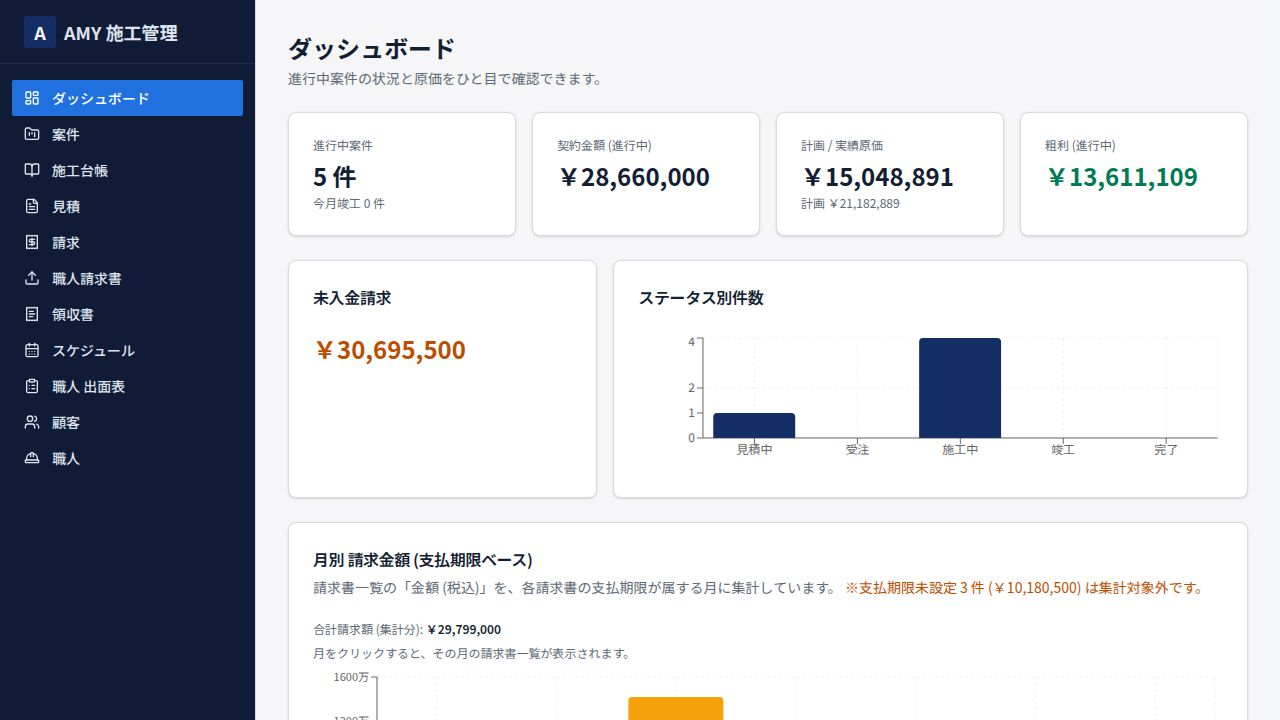
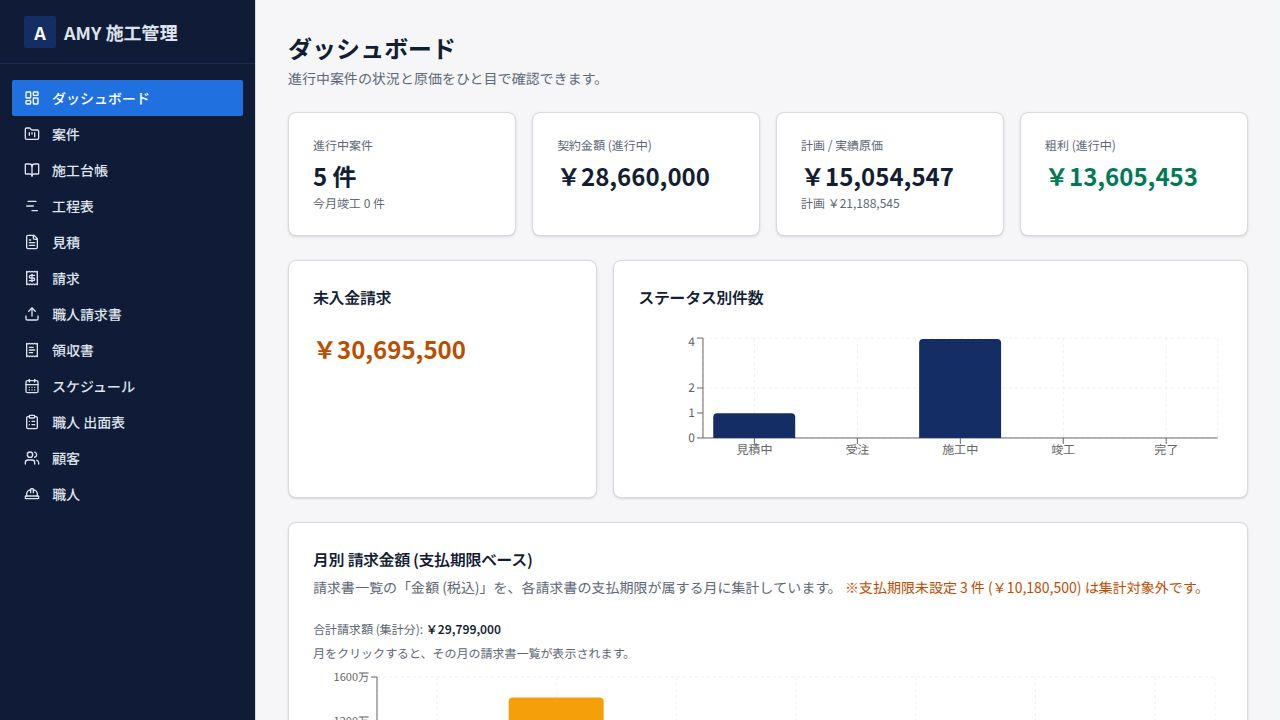
Add a dedicated page to view and manage all project schedules
Creates a new '/gantt' route, adds a "工程表" navigation item to the sidebar, and implements a Gantt chart view that lists all projects with filtering and search capabilities.

Replit-Commit-Author: Agent
Replit-Commit-Session-Id: 206fac2c-a3a6-4f16-acd3-1f3e3299f14d
Replit-Commit-Checkpoint-Type: full_checkpoint
Replit-Commit-Event-Id: ed08cd75-68a4-49df-8485-2a8e98e0285d
Replit-Commit-Screenshot-Url: https://storage.googleapis.com/screenshot-production-us-central1/b0899865-3346-40bc-9060-3671cc15a792/206fac2c-a3a6-4f16-acd3-1f3e3299f14d/0S855bm
Replit-Helium-Checkpoint-Created: true

diff --git a/artifacts/amy/src/pages/gantt.tsx b/artifacts/amy/src/pages/gantt.tsx
@@ -1,0 +1,178 @@
+import { useState, useMemo } from "react";
+import { useListProjects } from "@workspace/api-client-react";
+import { ProjectGantt } from "@/components/project-gantt";
+import { Skeleton } from "@/components/ui/skeleton";
+import { Input } from "@/components/ui/input";
+import {
+  Select,
+  SelectContent,
+  SelectItem,
+  SelectTrigger,
+  SelectValue,
+} from "@/components/ui/select";
+import { ChevronDown, ChevronRight, Search } from "lucide-react";
+import { Link } from "wouter";
+import { ProjectStatusBadge } from "@/components/status-badge";
+
+const STATUS_LABELS: Record<string, string> = {
+  estimating: "見積中",
+  contracted: "契約済",
+  in_progress: "施工中",
+  completed: "完工",
+  archived: "保管",
+};
+
+export default function GanttPage() {
+  const projectsQ = useListProjects();
+  const [search, setSearch] = useState("");
+  const [statusFilter, setStatusFilter] = useState<string>("active");
+  const [expandedIds, setExpandedIds] = useState<Set<string>>(new Set());
+
+  const projects = useMemo(() => {
+    let list = projectsQ.data ?? [];
+    if (statusFilter === "active") {
+      list = list.filter(
+        (p) => p.status === "in_progress" || p.status === "contracted",
+      );
+    } else if (statusFilter !== "all") {
+      list = list.filter((p) => p.status === statusFilter);
+    }
+    if (search.trim()) {
+      const q = search.trim().toLowerCase();
+      list = list.filter(
+        (p) =>
+          p.name.toLowerCase().includes(q) ||
+          (p.customerName ?? "").toLowerCase().includes(q),
+      );
+    }
+    return list;
+  }, [projectsQ.data, statusFilter, search]);
+
+  const toggleExpand = (id: string) => {
+    setExpandedIds((prev) => {
+      const next = new Set(prev);
+      if (next.has(id)) next.delete(id);
+      else next.add(id);
+      return next;
+    });
+  };
+
+  const expandAll = () => {
+    setExpandedIds(new Set(projects.map((p) => p.id)));
+  };
+
+  const collapseAll = () => {
+    setExpandedIds(new Set());
+  };
+
+  if (projectsQ.isLoading) {
+    return <Skeleton className="h-96 w-full" />;
+  }
+
+  return (
+    <div className="space-y-6">
+      <div>
+        <h1 className="text-2xl font-bold">工程表</h1>
+        <p className="text-sm text-muted-foreground mt-1">
+          案件ごとの工事工程（ガントチャート）を一覧で確認・編集できます。
+        </p>
+      </div>
+
+      <div className="flex items-center gap-3 flex-wrap">
+        <div className="relative w-64">
+          <Search className="absolute left-2.5 top-1/2 -translate-y-1/2 w-4 h-4 text-muted-foreground" />
+          <Input
+            placeholder="案件名・顧客名で検索"
+            value={search}
+            onChange={(e) => setSearch(e.target.value)}
+            className="pl-9"
+          />
+        </div>
+        <Select value={statusFilter} onValueChange={setStatusFilter}>
+          <SelectTrigger className="w-40">
+            <SelectValue />
+          </SelectTrigger>
+          <SelectContent>
+            <SelectItem value="active">施工中・契約済</SelectItem>
+            <SelectItem value="all">すべて</SelectItem>
+            <SelectItem value="estimating">見積中</SelectItem>
+            <SelectItem value="contracted">契約済</SelectItem>
+            <SelectItem value="in_progress">施工中</SelectItem>
+            <SelectItem value="completed">完工</SelectItem>
+            <SelectItem value="archived">保管</SelectItem>
+          </SelectContent>
+        </Select>
+        <div className="flex gap-1 ml-auto">
+          <button
+            type="button"
+            onClick={expandAll}
+            className="text-xs text-muted-foreground hover:text-foreground px-2 py-1 rounded hover:bg-muted"
+          >
+            すべて展開
+          </button>
+          <button
+            type="button"
+            onClick={collapseAll}
+            className="text-xs text-muted-foreground hover:text-foreground px-2 py-1 rounded hover:bg-muted"
+          >
+            すべて閉じる
+          </button>
+        </div>
+      </div>
+
+      {projects.length === 0 ? (
+        <div className="border rounded-md py-16 text-center text-sm text-muted-foreground">
+          {statusFilter === "active"
+            ? "施工中・契約済の案件がありません。"
+            : "該当する案件がありません。"}
+        </div>
+      ) : (
+        <div className="space-y-2">
+          {projects.map((p) => {
+            const expanded = expandedIds.has(p.id);
+            return (
+              <div key={p.id} className="border rounded-md bg-card">
+                <button
+                  type="button"
+                  onClick={() => toggleExpand(p.id)}
+                  className="w-full flex items-center gap-3 px-4 py-3 text-left hover:bg-muted/30 transition-colors"
+                >
+                  {expanded ? (
+                    <ChevronDown className="w-4 h-4 text-muted-foreground flex-shrink-0" />
+                  ) : (
+                    <ChevronRight className="w-4 h-4 text-muted-foreground flex-shrink-0" />
+                  )}
+                  <div className="flex-1 min-w-0">
+                    <div className="flex items-center gap-2">
+                      <span className="font-semibold text-sm truncate">
+                        {p.name}
+                      </span>
+                      <ProjectStatusBadge status={p.status} />
+                    </div>
+                    {p.customerName && (
+                      <div className="text-xs text-muted-foreground mt-0.5 truncate">
+                        {p.customerName}
+                      </div>
+                    )}
+                  </div>
+                  <Link
+                    href={`/projects/${p.id}`}
+                    onClick={(e: React.MouseEvent) => e.stopPropagation()}
+                    className="text-xs text-primary hover:underline flex-shrink-0"
+                  >
+                    案件詳細
+                  </Link>
+                </button>
+                {expanded && (
+                  <div className="px-4 pb-4 border-t">
+                    <ProjectGantt projectId={p.id} />
+                  </div>
+                )}
+              </div>
+            );
+          })}
+        </div>
+      )}
+    </div>
+  );
+}

diff --git a/artifacts/amy/src/components/app-shell.tsx b/artifacts/amy/src/components/app-shell.tsx
@@ -1,10 +1,11 @@
 import { Link, useLocation } from "wouter";
-import { LayoutDashboard, FolderKanban, FileText, Receipt, CalendarDays, Users, HardHat, Upload, ReceiptText, BookOpen, ClipboardList } from "lucide-react";
+import { LayoutDashboard, FolderKanban, FileText, Receipt, CalendarDays, Users, HardHat, Upload, ReceiptText, BookOpen, ClipboardList, GanttChart } from "lucide-react";
 
 const navItems = [
   { name: "ダッシュボード", href: "/", icon: LayoutDashboard },
   { name: "案件", href: "/projects", icon: FolderKanban },
   { name: "施工台帳", href: "/ledger", icon: BookOpen },
+  { name: "工程表", href: "/gantt", icon: GanttChart },
   { name: "見積", href: "/quotes", icon: FileText },
   { name: "請求", href: "/invoices", icon: Receipt },
   { name: "職人請求書", href: "/vendor-invoices", icon: Upload },

diff --git a/artifacts/amy/src/App.tsx b/artifacts/amy/src/App.tsx
@@ -22,6 +22,7 @@ import VendorInvoicesPage from "@/pages/vendor-invoices";
 import ReceiptsPage from "@/pages/receipts";
 import LedgerPage from "@/pages/ledger";
 import StaffAssignmentsPage from "@/pages/staff-assignments";
+import GanttPage from "@/pages/gantt";
 
 function Router() {
   return (
@@ -38,6 +39,7 @@ function Router() {
       <Route path="/invoices" component={InvoicesListPage} />
       <Route path="/invoices/new" component={InvoiceNewPage} />
       <Route path="/invoices/:id" component={InvoiceDetailPage} />
+      <Route path="/gantt" component={GanttPage} />
       <Route path="/schedule" component={SchedulePage} />
       <Route path="/vendor-invoices" component={VendorInvoicesPage} />
       <Route path="/receipts" component={ReceiptsPage} />

diff --git a/replit.md b/replit.md
@@ -44,6 +44,11 @@ pnpm monorepo with TypeScript project references.
 - **職人請求書アップロード**: page at `/vendor-invoices`. Staff selects 職人 + 号室 + 金額 + ファイル. Server normalizes 号室 (drops 号室/号/室, full→half-width digits) and looks up `projects.unitNumber`. On match, auto-creates a `cost_entry` (category: `labor` if role contains 社員/自社, else `subcontract`) and links via `vendor_invoices.costEntryId`. Status = `matched` | `unmatched`. Manual matching via `POST /api/vendor-invoices/:id/match`. Delete cascades cost_entry removal.
 - **File uploads**: `POST /api/storage/uploads/request-url` returns `{uploadURL, objectPath}`. Frontend captures `objectPath` from this call (via ref in onGetUploadParameters), then constructs serve path `/api/storage${objectPath}` for `vendor_invoices.fileUrl`. Files are served by `GET /api/storage/objects/*` (currently unauthenticated — fine for single-tenant).
 
+## Standalone pages
+
+- **工程表** (`/gantt`): Top-level Gantt chart page listing all projects in collapsible accordion. Reuses `ProjectGantt` component. Filter by status (default: 施工中・契約済) and search by name/customer. Each project expands to show its full interactive Gantt chart with drag, resize, add/edit/delete phases.
+- **スケジュール** (`/schedule`): Weekly staff assignment grid (職人×曜日). Different from 工程表 — this is about who works where.
+
 ## Inline editing (台帳形式)
 
 - `components/editable-cell.tsx` exposes `EditableText`, `EditableNumber`, `EditableDate`. All save on blur and on Enter; Escape sets a `cancelRef` flag that the synchronous onBlur checks to skip commit (state setters fire after blur, so a flag is needed). `required` prop reverts to original on empty.
